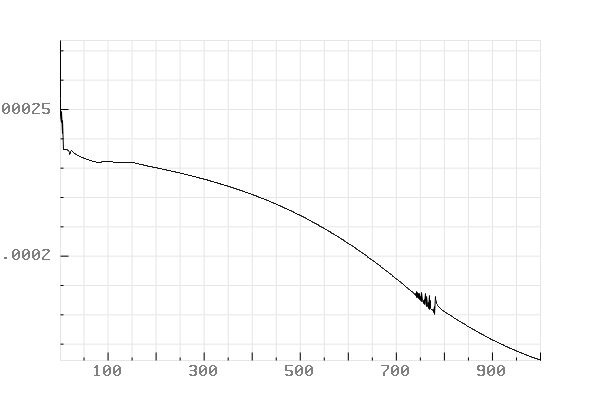
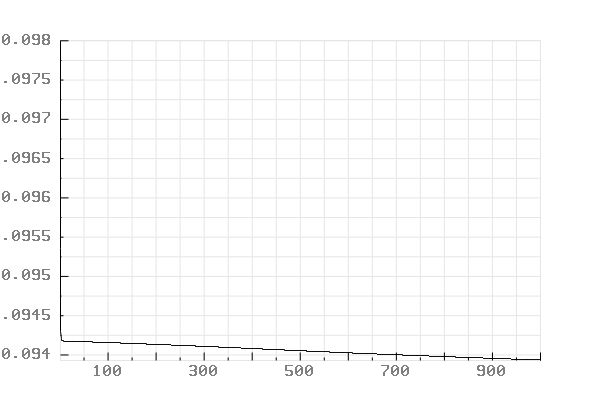
modified and tested sine wave nn and XOR nn

diff --git a/NN-Library/NN-Library.cpp b/NN-Library/NN-Library.cpp
@@ -64,7 +64,7 @@ void SineWave()
 		testBiases.push_back(tempBias);
 	}
 	int testNodes = 10;
-	ACTIVATION testActivation = ACTIVATION::RELU;
+	ACTIVATION testActivation = ACTIVATION::SIGMOID;
 	ConnectedLayer* cLayer = new ConnectedLayer(testInputs, testWeights, testBiases, testNodes, testActivation);
 
 	testInputs = { 0.0f };
@@ -84,9 +84,29 @@ void SineWave()
 		testBiases.push_back(tempBias);
 	}
 	testNodes = 25;
-	testActivation = ACTIVATION::RELU;
+	testActivation = ACTIVATION::SIGMOID;
 	ConnectedLayer* cLayer2 = new ConnectedLayer(testInputs, testWeights, testBiases, testNodes, testActivation);
 
+	testInputs = { 0.0f };
+	testWeights.clear();
+	for (int i = 0; i < 25 * testNodes; ++i)
+	{
+		float upper = 1.0f / sqrtf(testNodes);
+		float lower = 0.0f;
+		int randomInt = (rand() % 1000);
+		float tempWeight = (lower + randomInt * (upper - lower)) / 1000.0f;
+		testWeights.push_back(tempWeight);
+	}
+	testBiases.clear();
+	for (int i = 0; i < 25; ++i)
+	{
+		float tempBias = 0.01f;
+		testBiases.push_back(tempBias);
+	}
+	testNodes = 25;
+	testActivation = ACTIVATION::SIGMOID;
+	ConnectedLayer* cLayer3 = new ConnectedLayer(testInputs, testWeights, testBiases, testNodes, testActivation);
+	
 	testInputs = { 0.0f };
 	testWeights.clear();
 	for (int i = 0; i < testNodes; ++i)
@@ -100,13 +120,14 @@ void SineWave()
 	testBiases = { 0.01f };
 	testNodes = 1;
 	testActivation = ACTIVATION::TANH;
-	ConnectedLayer* cLayer3 = new ConnectedLayer(testInputs, testWeights, testBiases, testNodes, testActivation);
+	ConnectedLayer* cLayer4 = new ConnectedLayer(testInputs, testWeights, testBiases, testNodes, testActivation);
 
 	int sets = 400;
 	NeuralNetwork* nn = new NeuralNetwork(sets);
 	nn->AddLayer(cLayer);
 	nn->AddLayer(cLayer2);
 	nn->AddLayer(cLayer3);
+	nn->AddLayer(cLayer4);
 
 	const int iterations = 1000;
 	std::vector<float> outputs;
@@ -127,9 +148,6 @@ void SineWave()
 		expectedOutputs.push_back(sinf(tempInput * (M_PI/180.0f)));
 
 	}
-	
-	//testInputs = { 0.0f, 45.0f, 90.0f, 135.0f, 180.0f, 217.0f, 225.0f, 270.0f, 279.0f, 315.0f, 360.0f };
-	//expectedOutputs = { 0.0f, 0.7071f, 1.0f, 0.7071f, 0.0f, -0.6018f, -0.7071f, -1.0f, -0.9877f, -0.7071f, 0.0f };
 
 	for (int i = 0; i < iterations; ++i)
 	{
@@ -138,7 +156,6 @@ void SineWave()
 		nn->TrainNetwork(testInputs, expectedOutputs);
 		cost = nn->GetCost();
 
-		cost /= sets;
 		outputCosts[i] = cost;
 		outputIterations[i] = double(i + 1.0);
 		outputs = nn->GetOutputs();
@@ -210,7 +227,6 @@ void XOR()
 		nn->TrainNetwork(testInputs, expectedOutputs);
 		cost = nn->GetCost();
 
-		cost /= sets;
 		outputCosts[i] = cost;
 		outputIterations[i] = double(i + 1.0);
 		outputs = nn->GetOutputs();
